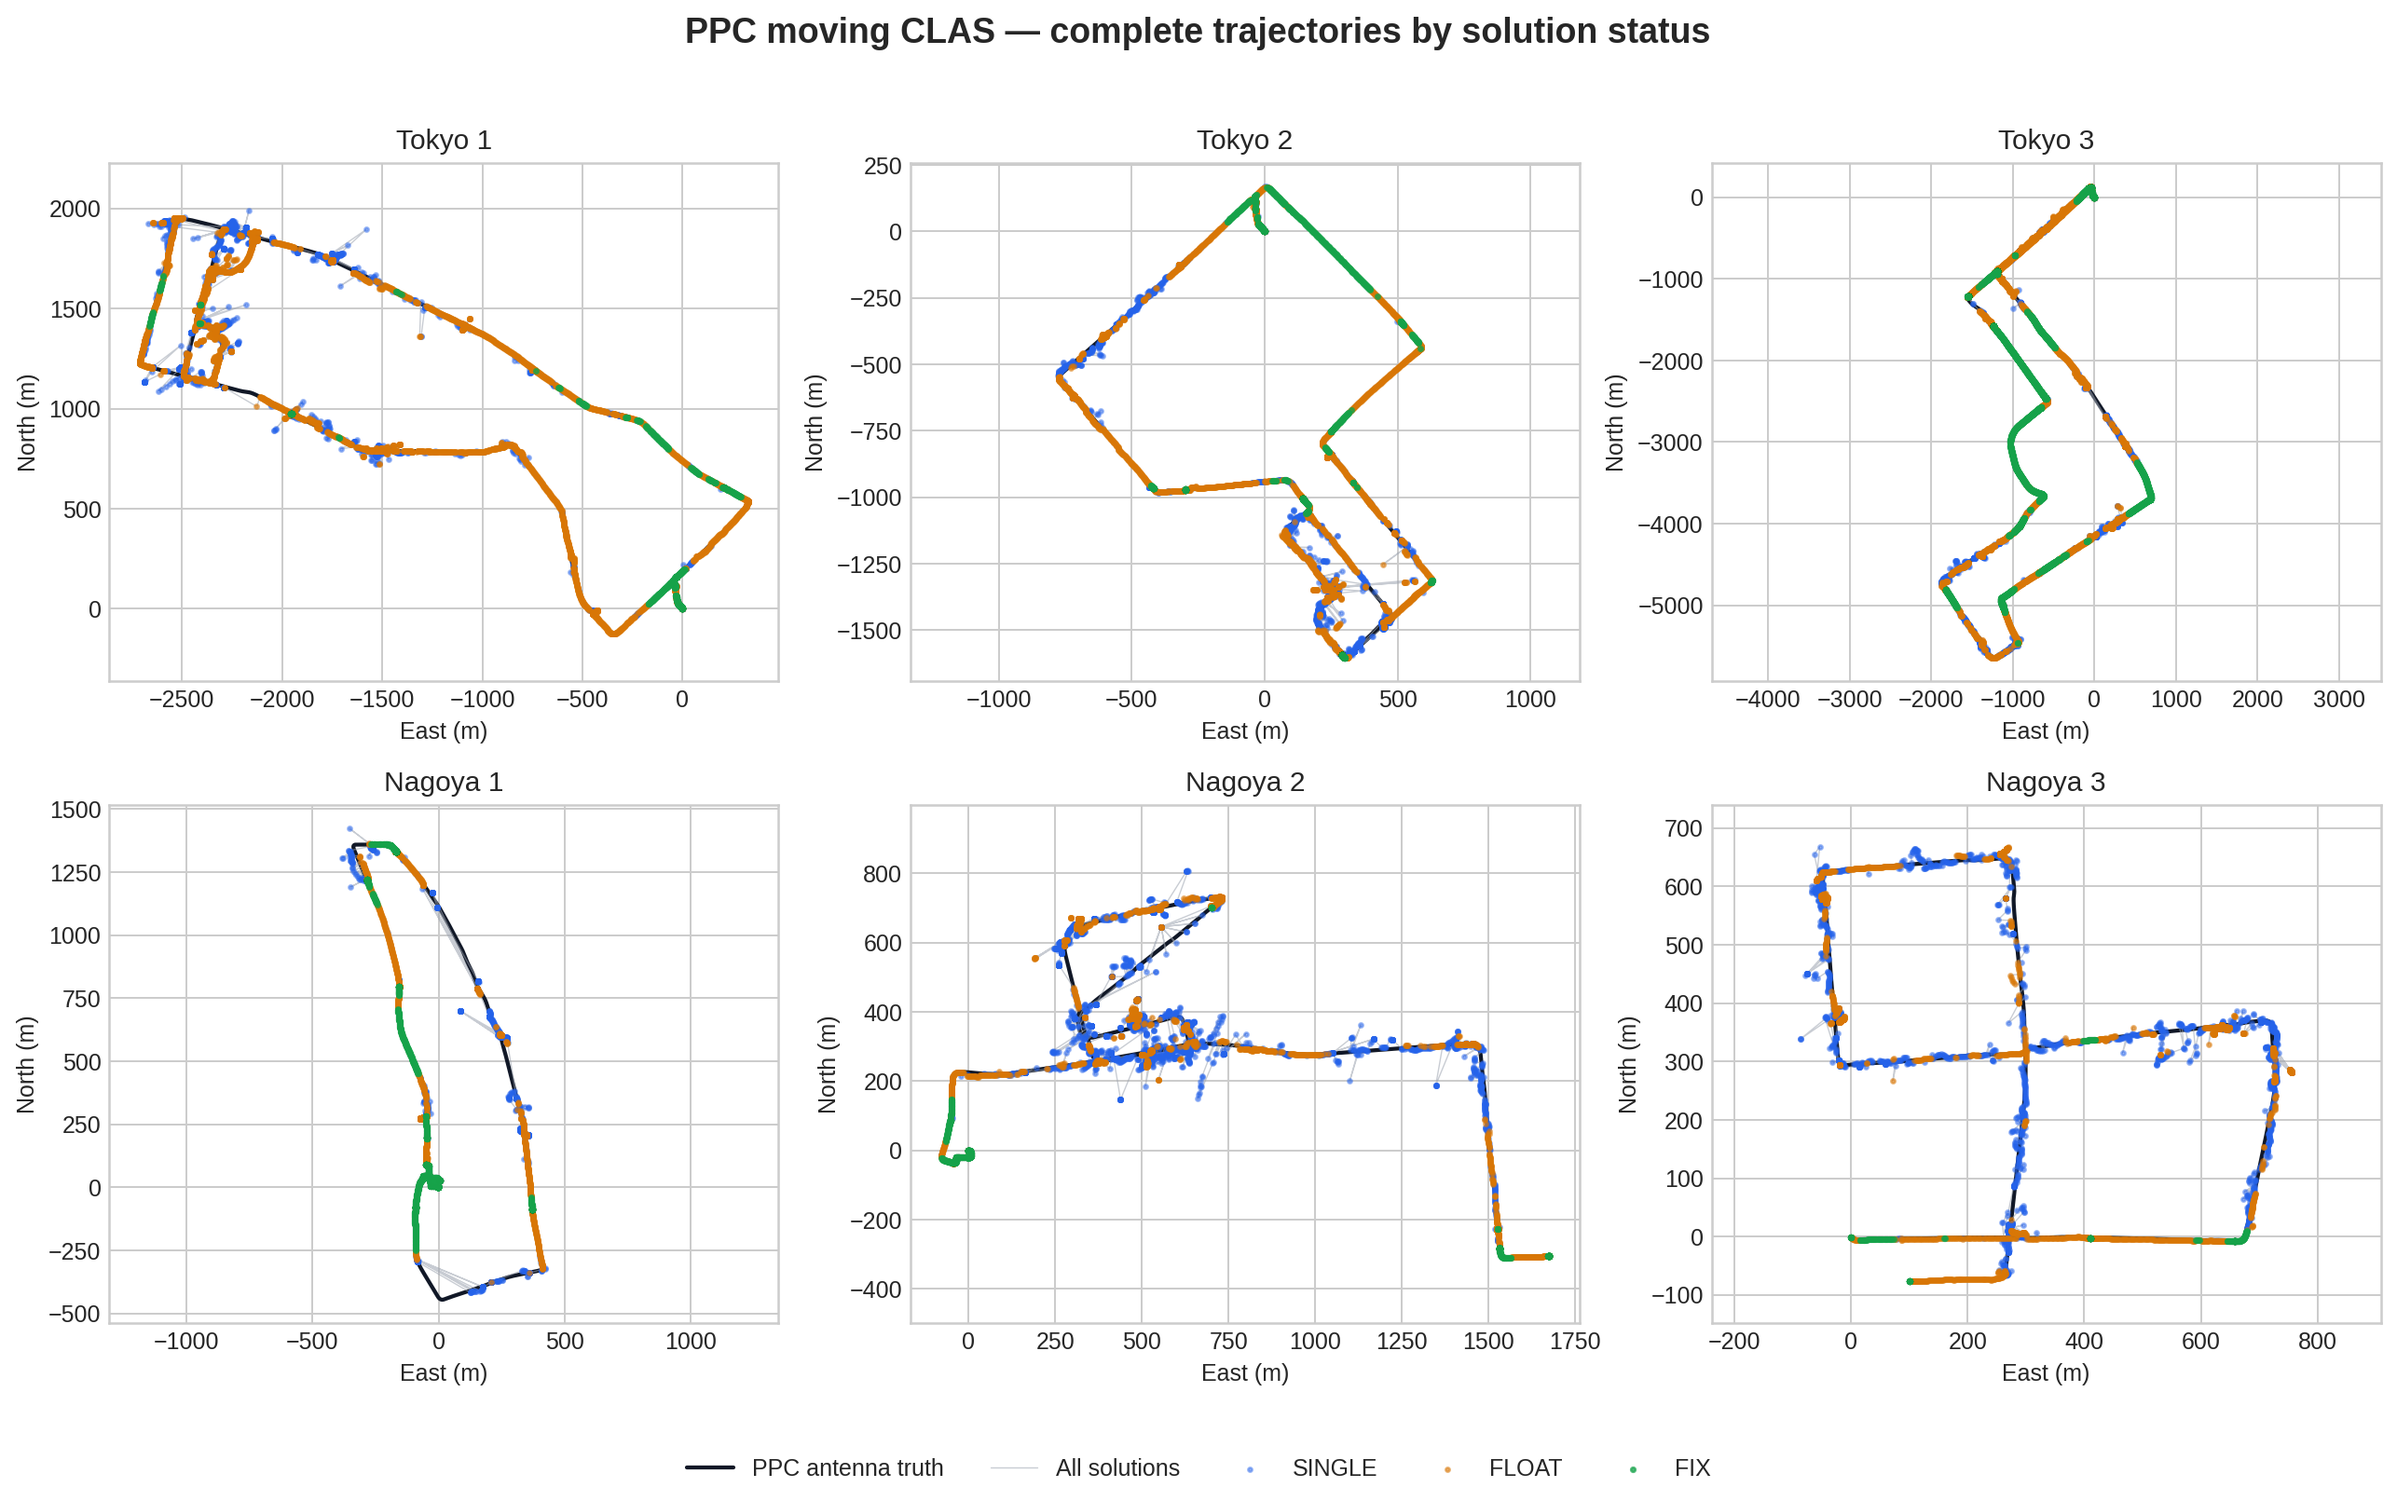
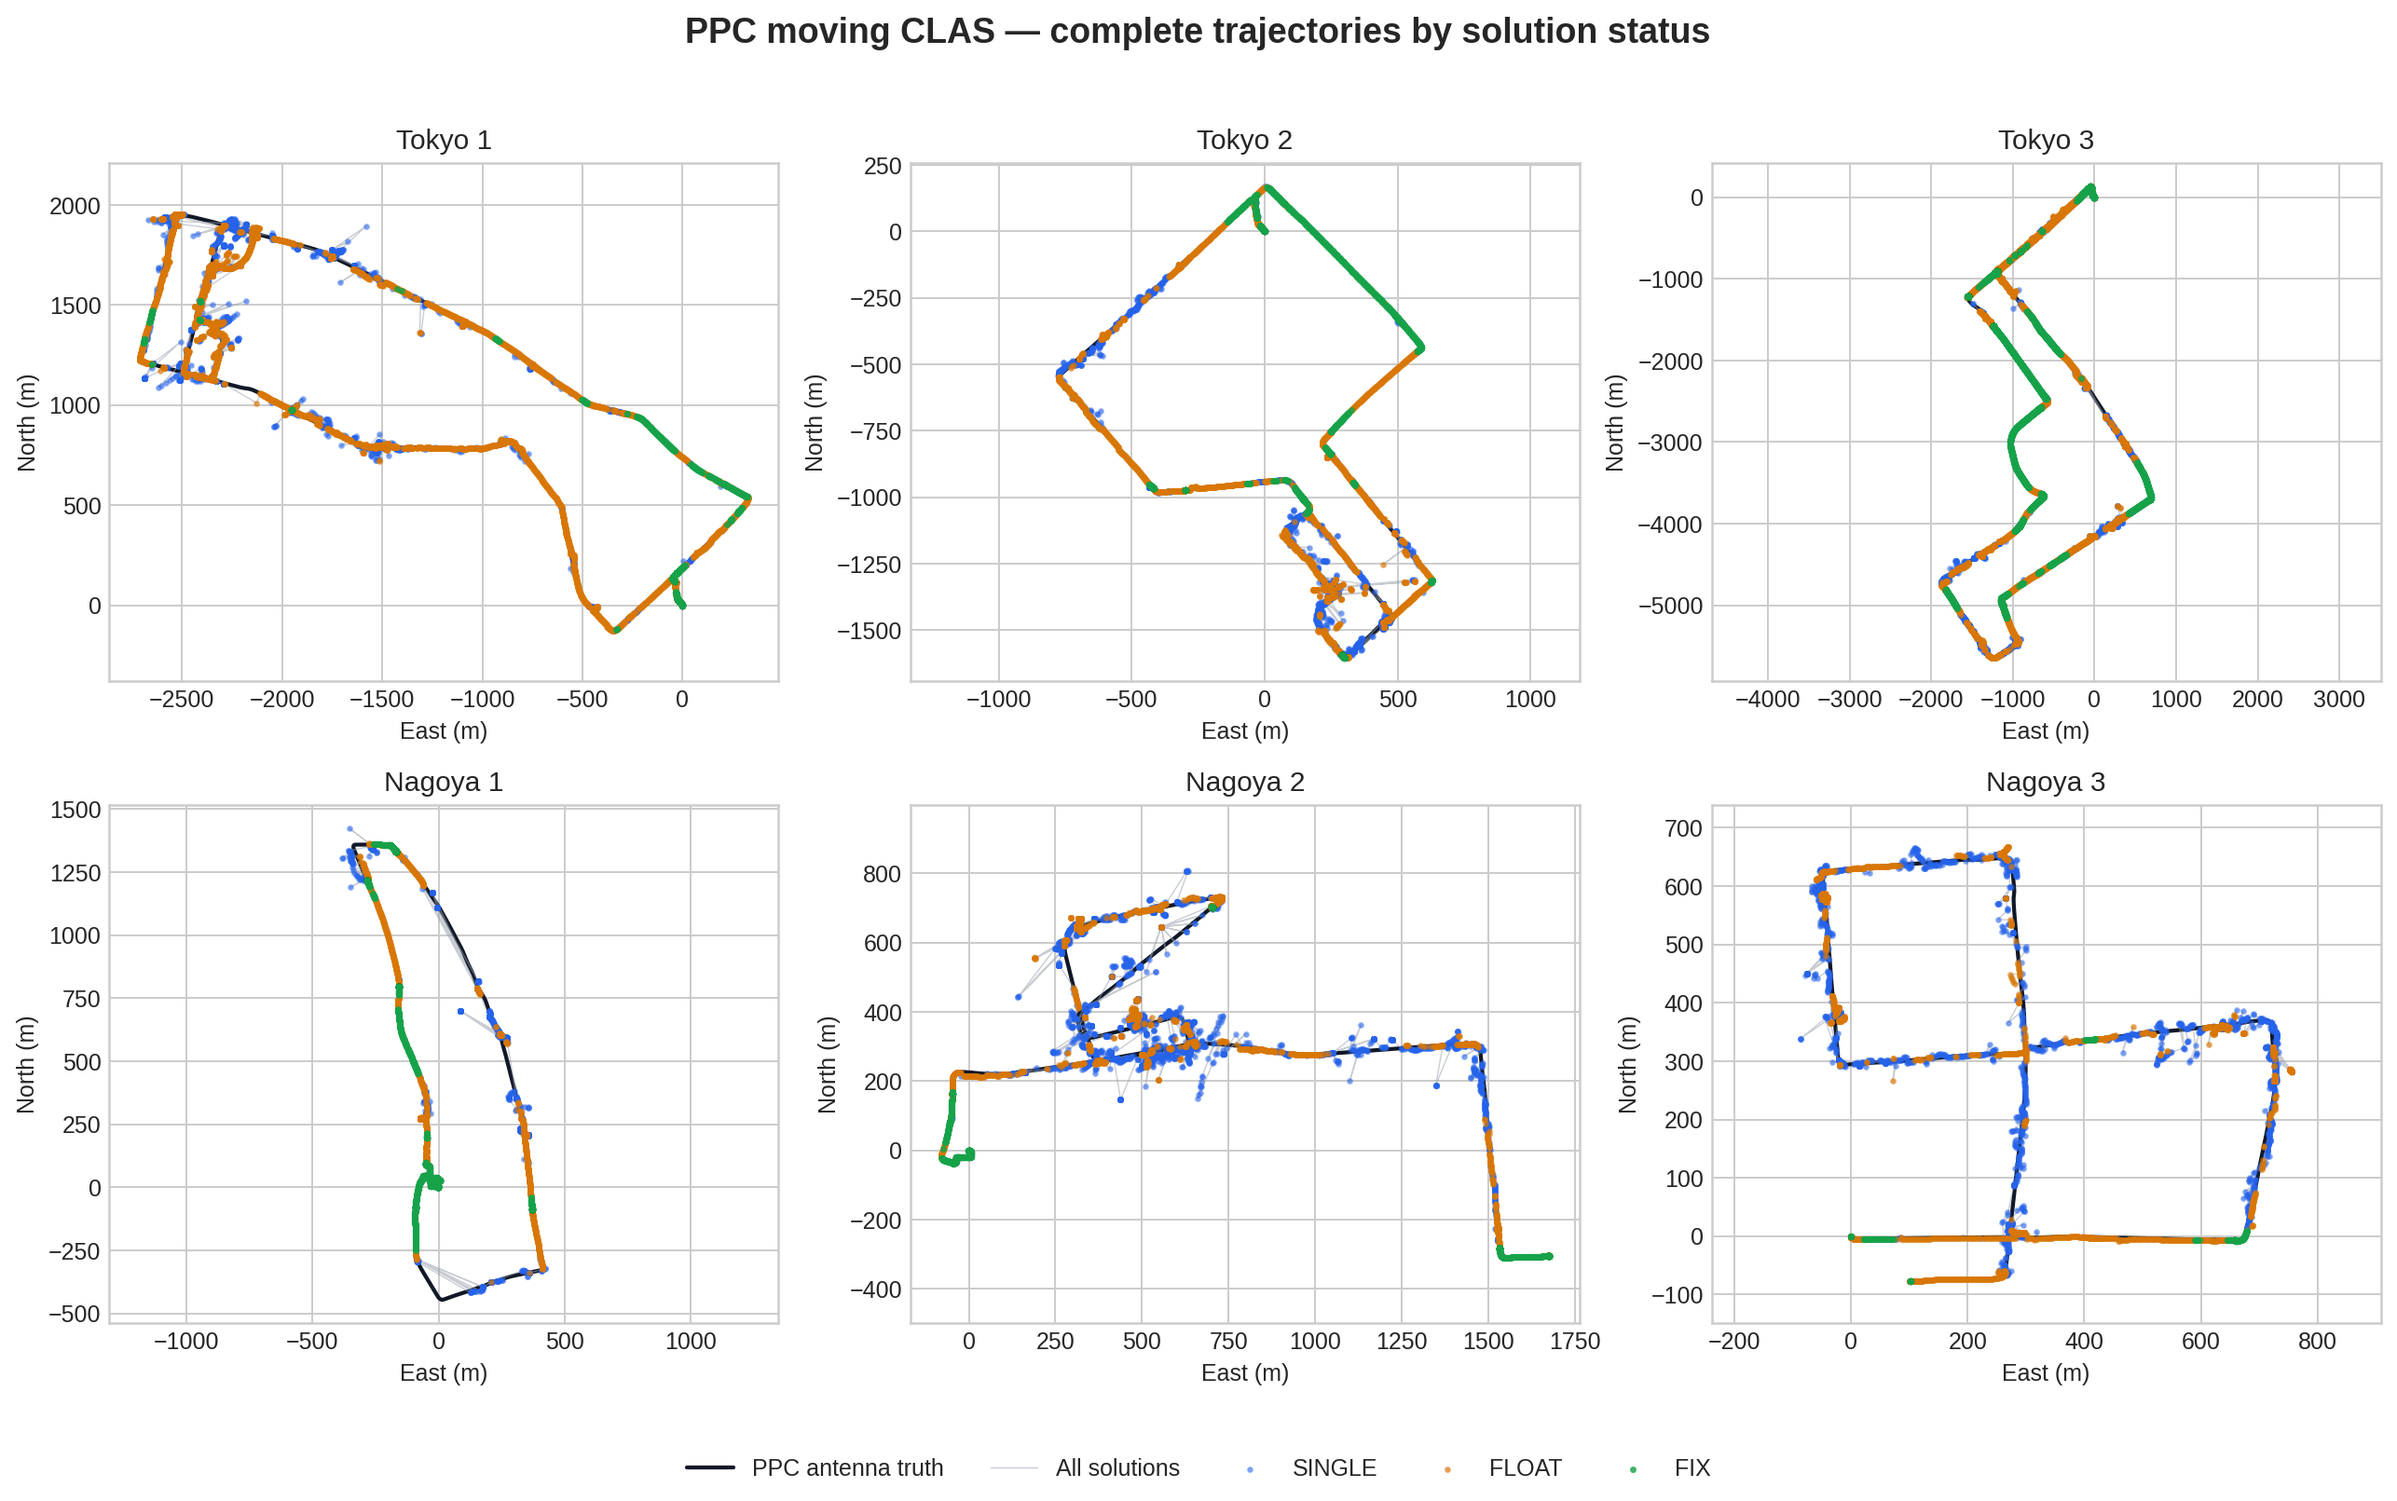
Refresh six-run CLAS benchmark on current develop
Claude-Session: https://claude.ai/code/session_01EXeVZLkt6NF26a38wbw2CN

diff --git a/README.md b/README.md
@@ -22,7 +22,7 @@ handling without an external RTKLIB runtime.
 |---|---|---|
 | RTK | PPC Tokyo/Nagoya vs RTKLIB `demo5` | +17.0 pp positioning, +28.1 pp official score, -11.96 m P95 H delta |
 | GNSS/IMU FGO | PPC Tokyo vs `tightly-coupled-gnss-imu-fgo` | Higher <50 cm fraction (avg +5.3 pp) and fix-rate (avg +7.9 pp) on all 3 runs; fixed-only RMS also wins 2 of 3 runs |
-| CLAS PPP | Six PPC Tokyo/Nagoya runs vs MRTKLIB CLAS | 22.055% aggregate FIX, 0.663 m FIX RMS2D, 36.525 m all-solution RMS2D, and 36 FIX epochs above 3 m across 58,258 scored epochs |
+| CLAS PPP | Six PPC Tokyo/Nagoya runs vs MRTKLIB CLAS | 23.645% aggregate FIX, 0.593 m FIX RMS2D, 36.510 m all-solution RMS2D, and 0 FIX epochs above 3 m across 58,258 scored epochs |
 | Urban RTK | UrbanNav Tokyo Odaiba vs RTKLIB `demo5` | More fixes, lower Hp95/Vp95; `--preset odaiba` closes Hmed |
 | SPP | PPC SPP adaptive robust + policy gate | No P95 regression with <=1 pp positioning drop |
 
@@ -249,19 +249,19 @@ and defines TTFF as the first run of at least 30 consecutive FIX epochs.
 
 MRTKLIB columns are the published v0.4.2 results from the
 [CLAS benchmark article](https://zenn.dev/hatognss/articles/7a54dd82606faf).
-The native results below are the complete-run outputs after the maxdiff and
-non-FIX continuity fixes; each run has 100% interval coverage and at least
-99.92% epoch coverage.
+The native results below are the complete-run outputs after the float-recovery
+fix landed in #345; each run has 100% interval coverage and at least 99.92%
+epoch coverage.
 
 | Run | libgnss++ FIX | MRTKLIB FIX | FIX RMS2D* | MRTKLIB RMS2D† | All RMS2D* | FLOAT RMS2D* | SINGLE RMS2D* | max FIX* | >3 m FIX* |
 |---|---:|---:|---:|---:|---:|---:|---:|---:|---:|
-| Tokyo 1 | **9.541%** | 4.900% | 0.766 m | 0.747 m | 41.866 m | 17.161 m | 80.321 m | 3.136 m | 36 |
-| Tokyo 2 | 16.942% | **21.700%** | 0.521 m | 0.514 m | 25.769 m | 17.067 m | 45.405 m | 2.484 m | **0** |
-| Tokyo 3 | **37.236%** | 7.400% | 0.327 m | 0.801 m | 35.292 m | 19.675 m | 88.663 m | 1.845 m | **0** |
-| Nagoya 1 | **33.448%** | 17.000% | 1.046 m | 1.105 m | 57.253 m | 7.676 m | 119.256 m | 1.638 m | **0** |
-| Nagoya 2 | 17.588% | **23.400%** | 0.745 m | 1.119 m | 25.792 m | 15.812 m | 39.933 m | 1.304 m | **0** |
-| Nagoya 3 | **6.421%** | 6.300% | 0.929 m | 0.318 m | 13.609 m | 13.986 m | 14.180 m | 1.499 m | **0** |
-| **Six-run aggregate** | **22.055%** | — | **0.663 m** | — | **36.525 m** | **16.615 m** | **70.291 m** | **3.136 m** | **36** |
+| Tokyo 1 | **9.702%** | 4.900% | 0.453 m | 0.747 m | 41.713 m | 16.619 m | 80.050 m | 1.533 m | **0** |
+| Tokyo 2 | 19.219% | **21.700%** | 0.387 m | 0.514 m | 25.922 m | 17.896 m | 45.343 m | 1.036 m | **0** |
+| Tokyo 3 | **37.387%** | 7.400% | 0.327 m | 0.801 m | 35.286 m | 19.727 m | 88.586 m | 2.826 m | **0** |
+| Nagoya 1 | **36.605%** | 17.000% | 0.888 m | 1.105 m | 57.257 m | 8.064 m | 119.220 m | 1.501 m | **0** |
+| Nagoya 2 | 23.117% | **23.400%** | 0.783 m | 1.119 m | 25.841 m | 16.480 m | 40.344 m | 2.486 m | **0** |
+| Nagoya 3 | 4.865% | **6.300%** | 0.959 m | 0.318 m | 13.554 m | 13.795 m | 14.040 m | 1.494 m | **0** |
+| **Six-run aggregate** | **23.645%** | — | **0.593 m** | — | **36.510 m** | **16.777 m** | **70.316 m** | **2.826 m** | **0** |
 
 \* libgnss++ precision uses PPC vehicle truth transformed to the antenna phase
 center. † The published MRTKLIB precision uses the unmodified PPC reference,
@@ -269,14 +269,14 @@ so cross-solver precision columns are contextual rather than reference-identical
 
 ![PPC six-run moving CLAS metric comparison](docs/ppc_clas_full_comparison.png)
 
-Across 58,258 scored epochs, native CLAS produced 12,849 FIX epochs. A finite
+Across 58,258 scored epochs, native CLAS produced 13,775 FIX epochs. A finite
 SPP candidate rejected by the chi-square/redundancy validation still remains
 excluded from ordinary filter admission, cold starts, and AR. For catastrophic
 FLOAT/SPP disagreement above 250 m only, it can continue the counted MRTKLIB
 `maxdiffp` recovery path. On Tokyo 2 this moves the bad-seed recovery from TOW
 177750.0 to 177747.4 (311.6 m to 5.4 m), 0.8 s before the MRTKLIB recovery at
-177748.2. The six-run all-solution RMS2D is 36.525 m; FLOAT and SINGLE RMS2D are
-16.615 m and 70.291 m respectively.
+177748.2. The six-run all-solution RMS2D is 36.510 m; FLOAT and SINGLE RMS2D are
+16.777 m and 70.316 m respectively.
 
 | Complete trajectories | Horizontal error and FIX epochs |
 |---|---|

diff --git a/docs/ppc_clas_full_table.md b/docs/ppc_clas_full_table.md
@@ -1,12 +1,12 @@
 | Run | Coverage (time / epochs) | libgnss++ FIX | MRTKLIB FIX | libgnss++ FIX RMS2D* | MRTKLIB RMS2D† | libgnss++ FIX p68* | MRTKLIB p68† | All RMS2D* | FLOAT RMS2D* | SINGLE RMS2D* | libgnss++ max FIX* | >3 m FIX* | libgnss++ TTFF | MRTKLIB TTFF |
 |---|---:|---:|---:|---:|---:|---:|---:|---:|---:|---:|---:|---:|---:|---:|
-| Tokyo 1 | 100.000% / 99.966% | 9.541% | 4.900% | 0.766 m | 0.747 m | 0.306 m | 0.244 m | 41.866 m | 17.161 m | 80.321 m | 3.136 m | 36 | 0.000 s | 15.000 s |
-| Tokyo 2 | 100.000% / 99.989% | 16.942% | 21.700% | 0.521 m | 0.514 m | 0.387 m | 0.120 m | 25.769 m | 17.067 m | 45.405 m | 2.484 m | 0 | 7.000 s | 368.000 s |
-| Tokyo 3 | 100.000% / 99.980% | 37.236% | 7.400% | 0.327 m | 0.801 m | 0.309 m | 0.075 m | 35.292 m | 19.675 m | 88.663 m | 1.845 m | 0 | 4.000 s | 28.000 s |
-| Nagoya 1 | 100.000% / 99.974% | 33.448% | 17.000% | 1.046 m | 1.105 m | 1.186 m | 0.402 m | 57.253 m | 7.676 m | 119.256 m | 1.638 m | 0 | 0.000 s | 0.000 s |
-| Nagoya 2 | 100.000% / 99.958% | 17.588% | 23.400% | 0.745 m | 1.119 m | 0.776 m | 0.461 m | 25.792 m | 15.812 m | 39.933 m | 1.304 m | 0 | 0.000 s | 0.000 s |
-| Nagoya 3 | 100.000% / 99.962% | 6.421% | 6.300% | 0.929 m | 0.318 m | 0.938 m | 0.339 m | 13.609 m | 13.986 m | 14.180 m | 1.499 m | 0 | 28.200 s | 9.000 s |
-| **Six-run aggregate** | — | **22.055%** | — | **0.663 m** | — | **0.508 m** | — | **36.525 m** | **16.615 m** | **70.291 m** | **3.136 m** | **36** | — | — |
+| Tokyo 1 | 100.000% / 99.966% | 9.702% | 4.900% | 0.453 m | 0.747 m | 0.397 m | 0.244 m | 41.713 m | 16.619 m | 80.050 m | 1.533 m | 0 | 0.000 s | 15.000 s |
+| Tokyo 2 | 100.000% / 99.989% | 19.219% | 21.700% | 0.387 m | 0.514 m | 0.348 m | 0.120 m | 25.922 m | 17.896 m | 45.343 m | 1.036 m | 0 | 34.000 s | 368.000 s |
+| Tokyo 3 | 100.000% / 99.980% | 37.387% | 7.400% | 0.327 m | 0.801 m | 0.316 m | 0.075 m | 35.286 m | 19.727 m | 88.586 m | 2.826 m | 0 | 4.000 s | 28.000 s |
+| Nagoya 1 | 100.000% / 99.974% | 36.605% | 17.000% | 0.888 m | 1.105 m | 1.052 m | 0.402 m | 57.257 m | 8.064 m | 119.220 m | 1.501 m | 0 | 0.000 s | 0.000 s |
+| Nagoya 2 | 100.000% / 99.958% | 23.117% | 23.400% | 0.783 m | 1.119 m | 0.776 m | 0.461 m | 25.841 m | 16.480 m | 40.344 m | 2.486 m | 0 | 0.000 s | 0.000 s |
+| Nagoya 3 | 100.000% / 99.962% | 4.865% | 6.300% | 0.959 m | 0.318 m | 0.932 m | 0.339 m | 13.554 m | 13.795 m | 14.040 m | 1.494 m | 0 | 29.200 s | 9.000 s |
+| **Six-run aggregate** | — | **23.645%** | — | **0.593 m** | — | **0.558 m** | — | **36.510 m** | **16.777 m** | **70.316 m** | **2.826 m** | **0** | — | — |
 
 \* libgnss++ precision uses PPC vehicle truth transformed to the antenna phase center.
 † Published MRTKLIB v0.4.2 precision uses the unmodified PPC reference point; precision columns are contextual rather than reference-identical.

diff --git a/docs/ppc_clas_validation.md b/docs/ppc_clas_validation.md
@@ -4,16 +4,13 @@ Benchmark source: [GNSS測位エコシステムの統合を目指して - モダ
 
 ## Current verdict
 
-The full six-run PPC moving-data validation is complete. Across 58,256 scored
-epochs, LibGNSS++ produced 13,775 FIX epochs (23.646%) with 0.593 m aggregate
+The full six-run PPC moving-data validation is complete. Across 58,258 scored
+epochs, LibGNSS++ produced 13,775 FIX epochs (23.645%) with 0.593 m aggregate
 FIX RMS2D, 0.558 m FIX p68, and no FIX epoch above 3 m. Every run covers 100% of
-the reference interval and at least 99.92% of observation epochs.
+the reference interval and at least 99.95% of observation epochs.
 
 The same gate now reports non-FIX quality explicitly. Aggregate all-solution
-RMS2D is 36.796 m, FLOAT RMS2D is 16.471 m, and SINGLE RMS2D is 71.060 m.
-Relative to the preceding native baseline, all-solution RMS2D improves from
-36.991 m and SINGLE RMS2D from 71.481 m. FLOAT and FIX coordinates, solution
-statuses, and epoch coverage are unchanged across all 58,256 scored epochs.
+RMS2D is 36.510 m, FLOAT RMS2D is 16.777 m, and SINGLE RMS2D is 70.316 m.
 
 Compared with the published MRTKLIB v0.4.2 results, native FIX rate is higher
 on Tokyo 1, Tokyo 3, and Nagoya 1; it is within 0.3 percentage points on
